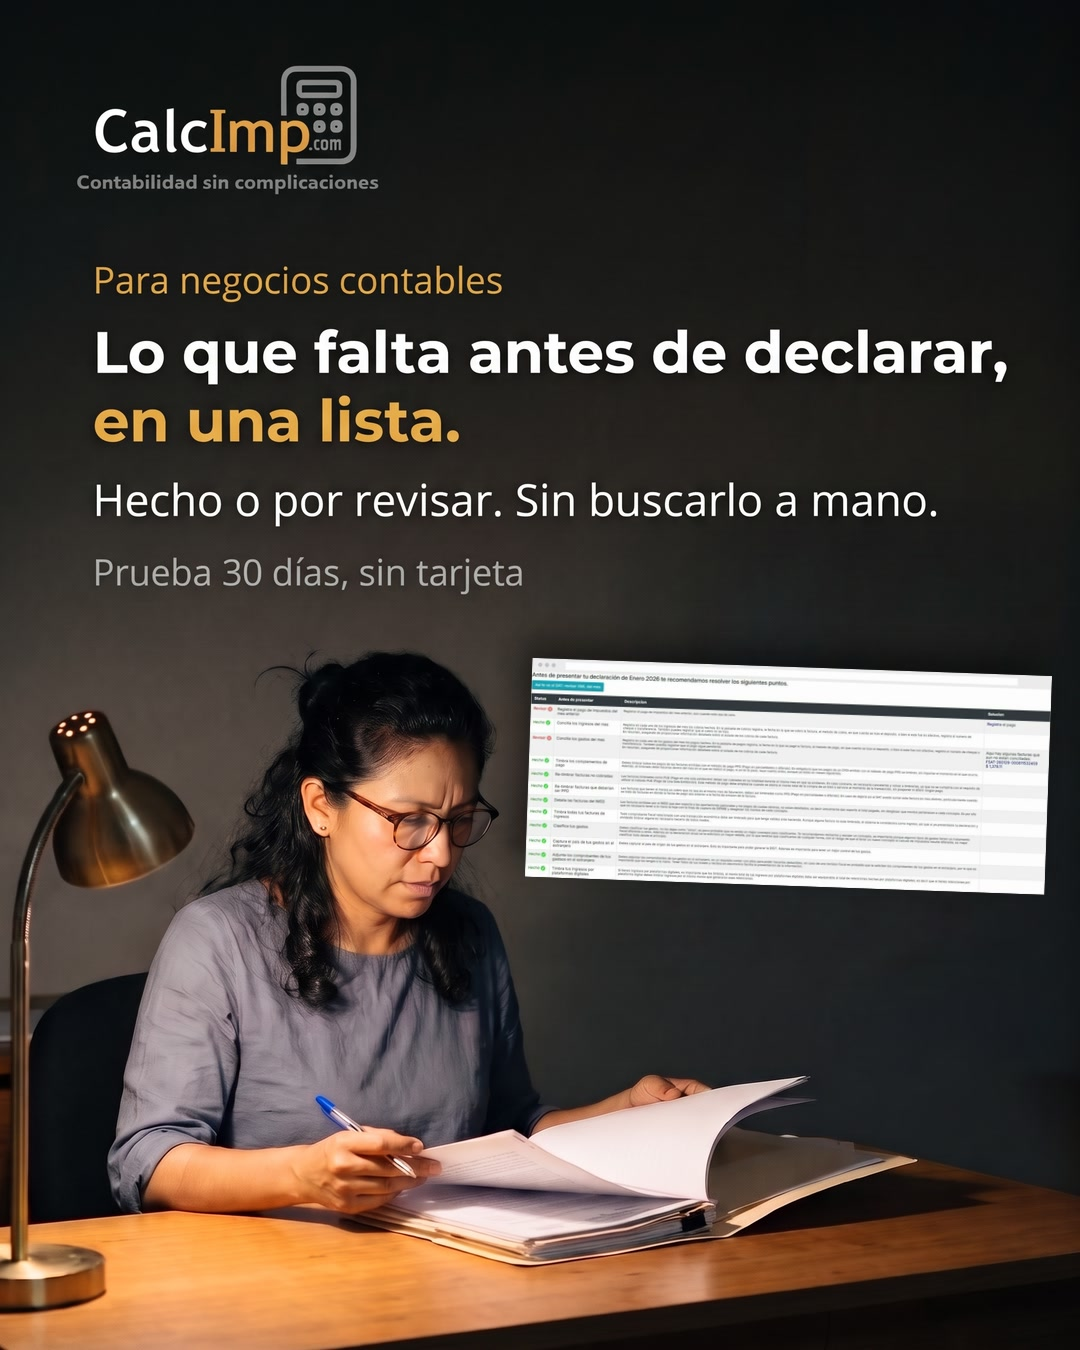
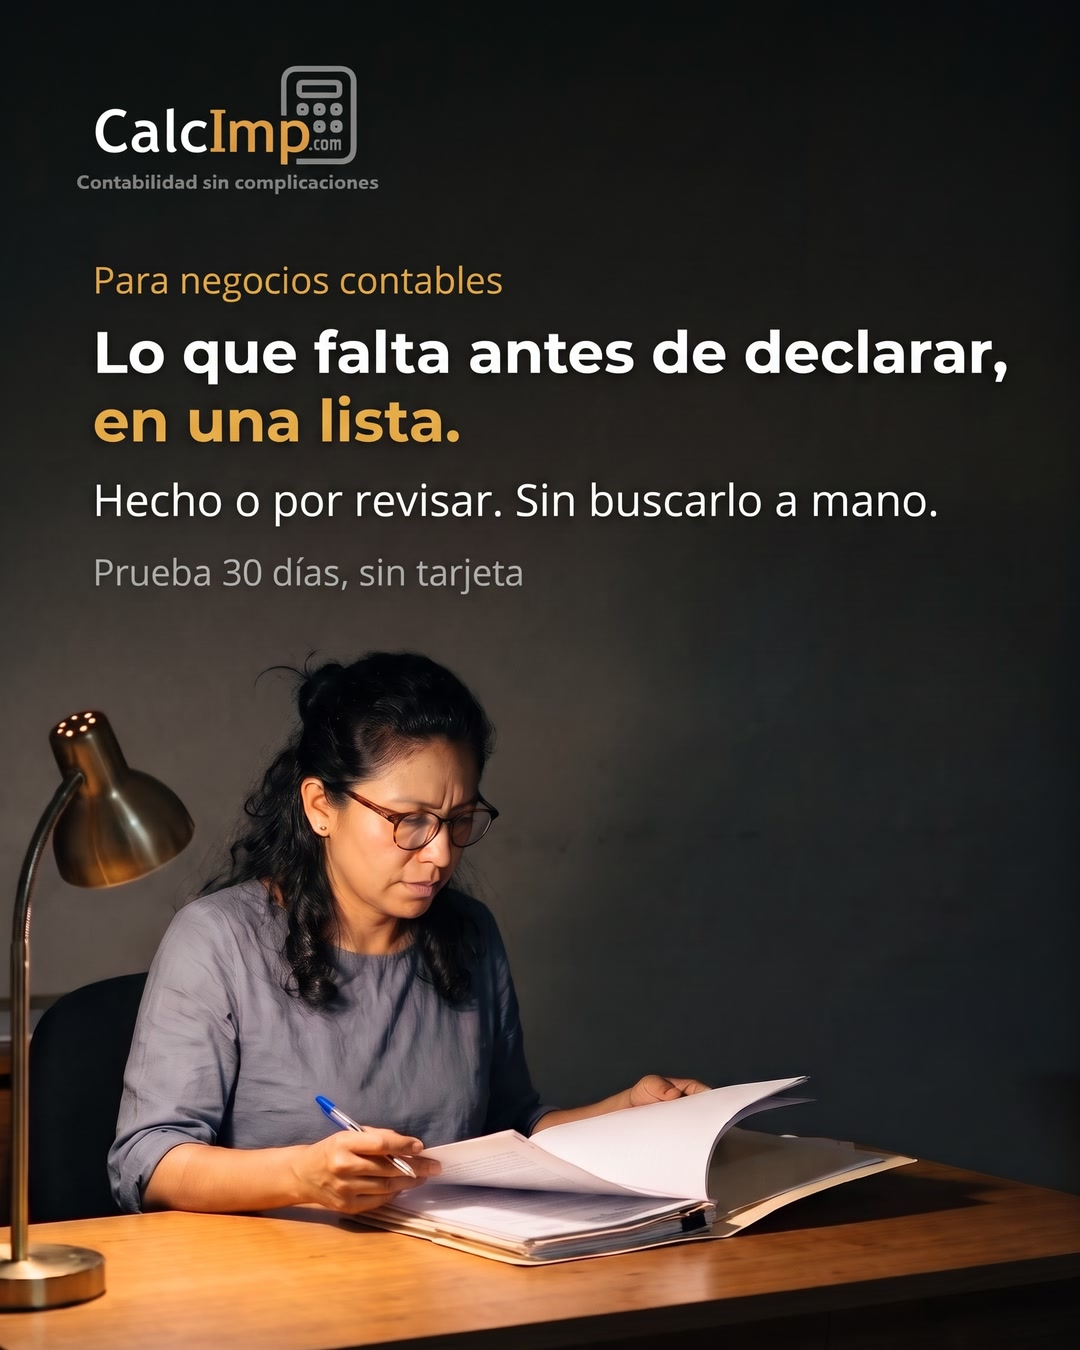
Artes sin capturas de la plataforma encimadas: M1-02, M1-03, M1-06, M1-14, M2-03 y M2-06 rehechos; M1-08 t3 fuera hasta rehacerla (CAL-162)

Changed region(s): [[0.4583, 0.4667, 0.9778, 0.6844]]

diff --git a/artes-meta.html b/artes-meta.html
@@ -4,7 +4,7 @@
 <link rel="stylesheet" href="estilo.css"></head><body>
 <header class="top"><b>CalcImp</b> · Piezas de pauta para su aprobación · Black n Orange · 4 de noviembre de 2026</header><nav class="tabs"><a href="index.html">Inicio</a><a href="artes-meta.html" class="on">Artes y copys de Meta</a><a href="google.html">Anuncios de Google</a><a href="landings/negocio-contable/">Landing L1</a><a href="landings/cambiar-de-sistema/">Landing L2</a></nav><main><h1>Artes y copys de Meta · Lote 1 (22 anuncios listos)</h1>
 <div class="aviso"><b>Cómo revisar:</b> cada anuncio tiene un código (por ejemplo <b>M1-03</b>). Por cada uno, respóndannos <b>Aprobado</b>, <b>Cambiar</b> (con qué cambio) o <b>Descartar</b>. Junto a la imagen va el texto que acompaña al arte en Facebook e Instagram.</div>
-<div class="aviso"><b>Sobre las personas de las imágenes:</b> son <b>personajes creados con inteligencia artificial</b>. No son personas reales ni clientes de CalcImp, y nunca se presentan como testimonio: no llevan nombre, cargo ni cita. Las pantallas del sistema que aparecen son <b>capturas reales</b>.</div><h2 id="M1">M1 · Negocios contables medianos (8 a 19 contribuyentes) (14)</h2><section class="card" id="M1-01"><div><div class="imgs"><a href="artes/M1-01-marisol-4x5.jpg" target="_blank"><img loading="lazy" src="artes/M1-01-marisol-4x5.jpg" alt="M1-01"></a><a href="artes/M1-01-marisol-9x16.jpg" target="_blank"><img loading="lazy" src="artes/M1-01-marisol-9x16.jpg" alt="M1-01"></a></div></div>
+<div class="aviso"><b>Sobre las personas de las imágenes:</b> son <b>personajes creados con inteligencia artificial</b>. No son personas reales ni clientes de CalcImp, y nunca se presentan como testimonio: no llevan nombre, cargo ni cita. Los artes no llevan capturas del sistema encima; las pantallas reales de CalcImp se ven en las landings.</div><h2 id="M1">M1 · Negocios contables medianos (8 a 19 contribuyentes) (14)</h2><section class="card" id="M1-01"><div><div class="imgs"><a href="artes/M1-01-marisol-4x5.jpg" target="_blank"><img loading="lazy" src="artes/M1-01-marisol-4x5.jpg" alt="M1-01"></a><a href="artes/M1-01-marisol-9x16.jpg" target="_blank"><img loading="lazy" src="artes/M1-01-marisol-9x16.jpg" alt="M1-01"></a></div></div>
 <div><div class="id">M1-01</div><span class="tag">Formato: 4:5 + 9:16</span><span class="tag">Mensaje: De 15 a 30 sin contratar</span>
 <dl><dt>Para quién</dt><dd>Negocios contables medianos (8 a 19 contribuyentes)</dd>
 <dt>Texto principal (arriba de la imagen)</dt><dd>Llega un punto en que el siguiente cliente ya no cabe. No porque no haya demanda: porque no hay horas. Antes de contratar a alguien más, revisa cuánto de tu semana se va en capturar, clasificar y rehacer lo que el sistema ya podría traer hecho. CalcImp cobra por contribuyente, no por usuario: tu equipo completo entra sin costo extra. Pruébalo 30 días con un contribuyente tuyo, sin tarjeta.</dd>
@@ -53,7 +53,7 @@
 <dt>Titular (abajo de la imagen)</dt><dd><b>Crece sin contratar todavía</b></dd>
 <dt>Descripción</dt><dd>30 días, sin tarjeta</dd>
 <dt>Botón</dt><dd>Más información → <a href="landings/negocio-contable/">L1 · Negocio contable</a></dd></dl>
-<div class="fb">Su respuesta para <b>M1-07</b>: Aprobado · Cambiar (¿qué?) · Descartar</div></div></section><section class="card" id="M1-08"><div><div class="imgs car"><a href="artes/M1-08-marisol-dani-t1.jpg" target="_blank"><img loading="lazy" src="artes/M1-08-marisol-dani-t1.jpg" alt="M1-08 tarjeta 1"></a><a href="artes/M1-08-marisol-dani-t2.jpg" target="_blank"><img loading="lazy" src="artes/M1-08-marisol-dani-t2.jpg" alt="M1-08 tarjeta 2"></a><a href="artes/M1-08-marisol-dani-t3.jpg" target="_blank"><img loading="lazy" src="artes/M1-08-marisol-dani-t3.jpg" alt="M1-08 tarjeta 3"></a><a href="artes/M1-08-marisol-dani-t4.jpg" target="_blank"><img loading="lazy" src="artes/M1-08-marisol-dani-t4.jpg" alt="M1-08 tarjeta 4"></a></div><p style="font-size:13px;color:#737373">Carrusel: deslicen para ver todas las tarjetas.</p></div>
+<div class="fb">Su respuesta para <b>M1-07</b>: Aprobado · Cambiar (¿qué?) · Descartar</div></div></section><section class="card" id="M1-08"><div><div class="imgs car"><a href="artes/M1-08-marisol-dani-t1.jpg" target="_blank"><img loading="lazy" src="artes/M1-08-marisol-dani-t1.jpg" alt="M1-08 tarjeta 1"></a><a href="artes/M1-08-marisol-dani-t2.jpg" target="_blank"><img loading="lazy" src="artes/M1-08-marisol-dani-t2.jpg" alt="M1-08 tarjeta 2"></a><a href="artes/M1-08-marisol-dani-t4.jpg" target="_blank"><img loading="lazy" src="artes/M1-08-marisol-dani-t4.jpg" alt="M1-08 tarjeta 3"></a></div><p style="font-size:13px;color:#737373">Carrusel: deslicen para ver todas las tarjetas.</p><p style="font-size:13px;color:#737373">Una tarjeta está en ajuste; la traemos aquí en cuanto esté.</p></div>
 <div><div class="id">M1-08</div><span class="tag">Formato: carrusel 4:5 ×4</span><span class="tag">Mensaje: De 15 a 30 sin contratar</span>
 <dl><dt>Para quién</dt><dd>Negocios contables medianos (8 a 19 contribuyentes)</dd>
 <dt>Texto principal (arriba de la imagen)</dt><dd>Duplicar la cartera no se siente como «más trabajo»: se siente como que ya no te alcanza el mes. Esto es lo que cambia cuando lo repetitivo deja de ser tuyo. Empieza con un contribuyente, 30 días, sin registrar tarjeta.</dd>
